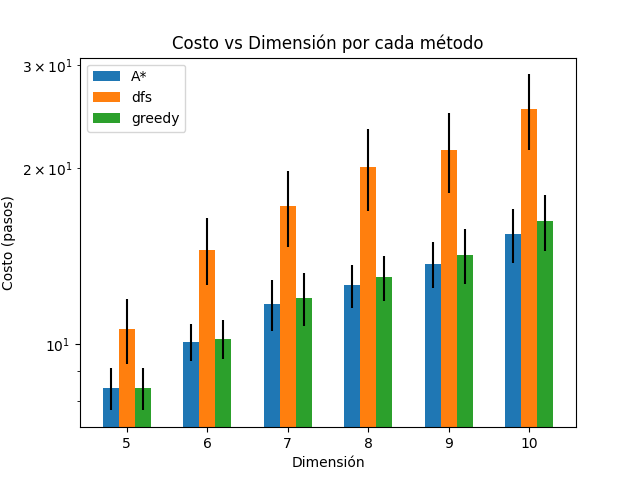
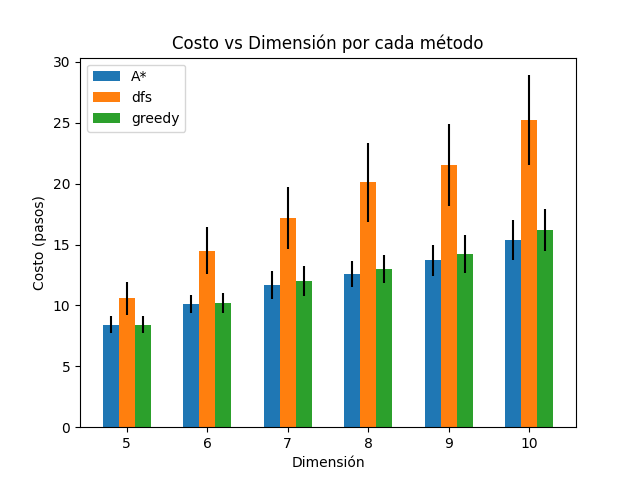
add: Graphs different matrix

diff --git a/tp1/CompareMethods/graph_methods.py b/tp1/CompareMethods/graph_methods.py
@@ -14,7 +14,8 @@ def graph_util(data, err, x_label, y_label, title):
 
     ax3.set_ylabel(y_label)
     ax3.set_xlabel(x_label)
-    ax3.set_yscale("log")
+    if y_label != 'Costo (pasos)':
+        ax3.set_yscale("log")
     ax3.set_title(title)
     ax3.set_xticks(np.arange(len(dims)))
     ax3.set_xticklabels(dims)

diff --git a/tp1/CompareHeuristics/graph_heuristics.py b/tp1/CompareHeuristics/graph_heuristics.py
@@ -21,8 +21,10 @@ def graph_util(data, err, x_label, y_label, title):
     ax3.set_title(title)
     ax3.set_xticks(np.arange(len(dims)))
     ax3.set_xticklabels(dims)
+    if y_label != 'Costo (pasos)':
+        ax3.set_yscale("log")
     ax3.legend()
-    plt.show()
+    plt.savefig(title)
     plt.clf()
 
 
